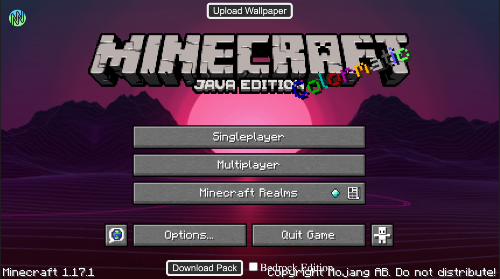
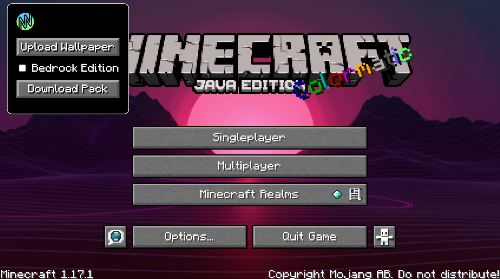
Updated wallpaper ui

diff --git a/wallpapermaker.html b/wallpapermaker.html
@@ -5,6 +5,39 @@
     <title>nera - MC Wallpaper</title>
     <link rel="icon" href="neralogo.png">
     <style>
+
+    @font-face {
+        font-family: mcfont;
+        src: url(mcfont.ttf);
+    }
+    input:not(#bedrock), select, button {
+        padding:4px;
+        color:white;
+        width:100%;
+        margin-bottom:10px;
+        font: 16px mcfont, sans-serif;
+        text-shadow: 2px 2px black;
+        box-sizing: border-box;
+        margin: 12px 0;
+    }
+    input, select {
+        background-color:black;
+        border:1px solid white;
+        outline:0;
+    }
+    button, select {
+        cursor:pointer;
+    }
+    button {
+        background-color:#6B6B6B;
+        outline:4px solid black;
+        border-top: 4px solid #AAAAAA;
+        border-left: 4px solid #AAAAAA;
+        border-bottom: 4px solid #535353;
+        border-right: 4px solid #535353;
+        padding:0 auto;
+    }
+
     body {
         margin:0px;
         padding:0px;
@@ -12,30 +45,9 @@
         overflow:hidden;
         background-color:#1f1f1f;
     }
-    #input {
-        display:none;
-        z-index: 2;
-    }
-    .center {
-        position:fixed;
-        left:50%;
-        transform: translate(-50%, 0);
-    }
-    button{
-        border:3px solid #f0f0f0;
-        border-radius:5px;
-        background-color:#2e2e2e;
-        color:#f0f0f0;
-        cursor:pointer;
-        z-index: 2;
-    }
     label {
-        color:#f0f0f0;
-        z-index: 2;
-    }
-    #fakeinput {
-        top:5px;
-        z-index: 2;
+        color: white;
+        margin-left: 8px;
     }
     #downloaddiv {
         bottom:5px;
@@ -65,17 +77,25 @@
     #baricon {
         max-width:6vw;
         max-height:6vh;
-        position:absolute;
-        top:15px;
-        left:15px;
-        background: #262626; 
         -moz-border-radius: 3vh; 
         -webkit-border-radius: 3vh;
         border-radius: 3vh;
         z-index: 2;
     }
-    #hidden {
+    .hidden {
         display:none;
+    }
+    #controlBar {
+        font: 16px mcfont, sans-serif;
+        position: fixed;
+        top: 16px;
+        left: 16px;
+        background-color: black;
+        z-index: 3;
+        max-width: fit-content;
+        outline: 1px solid white;
+        border-radius: 8px;
+        padding: 16px;
     }
     </style>
     <!-- Google tag (gtag.js) -->
@@ -89,15 +109,17 @@
     </script>
 </head>
 <body>
-    <a href="index.html"><img id="baricon" src="neralogo.png"></a>
+    <div id="controlBar">
+        <a href="index.html"><img id="baricon" src="neralogo.png"></a><br>
+        <button onclick="document.getElementById('input').click()" id="fakeinput">Upload Wallpaper</button><br>
+        <input type="checkbox" id="bedrock" name="bedrock" value="bedrock" onchange="changever(this.checked)"><label for="bedrock">Bedrock Edition</label><br>
+        <button onclick="download()" id="download">Download Pack</button>
+        <input type="file" class="hidden" id="input" accept="image/png, image/jpeg, image/jpg">
+    </div>
+    
     <canvas id="canvas"></canvas>
     <img src="javaoverlay.png" id='overlay'>
-    <button onclick="$('input').click()" id="fakeinput" class="center">Upload Wallpaper</button>
-    <div class="center" id='downloaddiv'>
-        <button onclick="download()" id="download">Download Pack</button>
-        <input type="checkbox" id="bedrock" name="bedrock" value="bedrock" onchange="changever(this.checked)"><label for="bedrock">Bedrock Edition</label>
-    </div>
-    <input type="file" id="input" accept="image/png, image/jpeg, image/jpg">
+    
     
     <script src="https://cdn.rawgit.com/Stuk/jszip/v3.0.0/dist/jszip.min.js"></script>
     <script>
